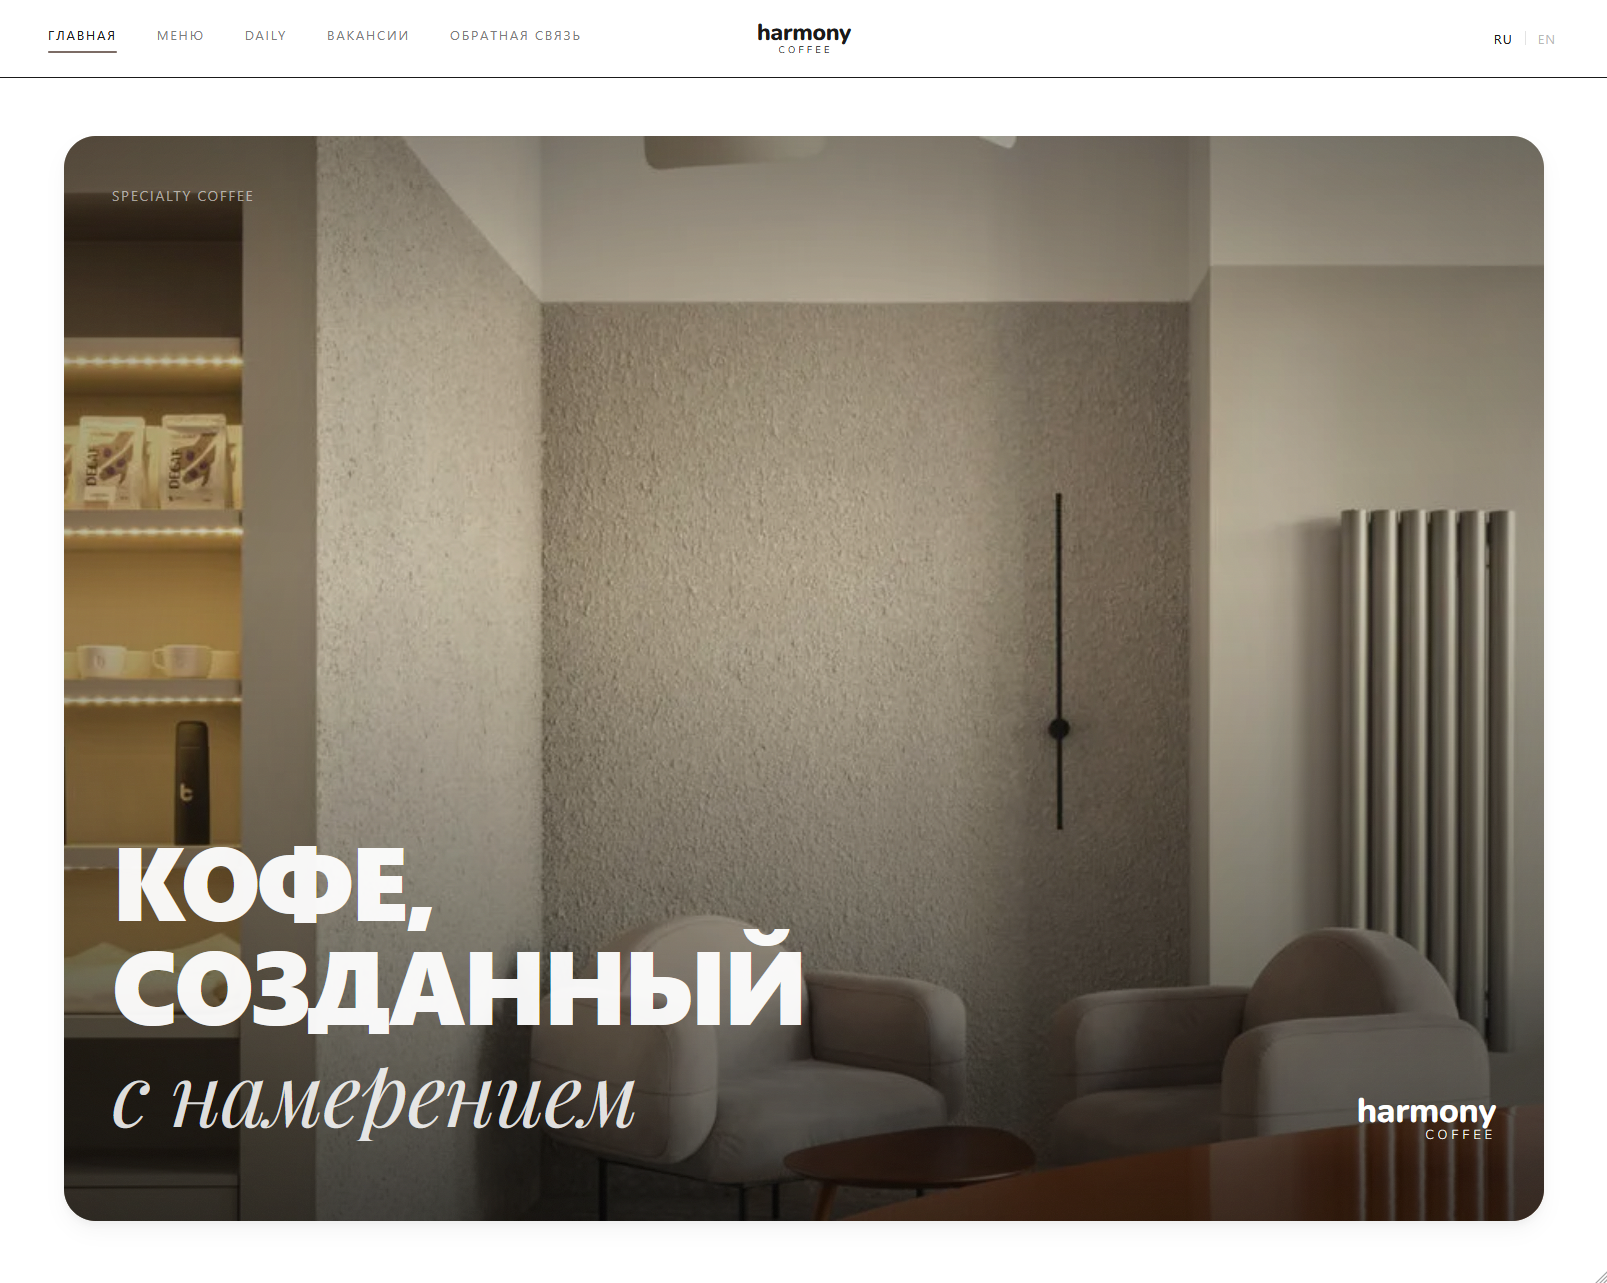
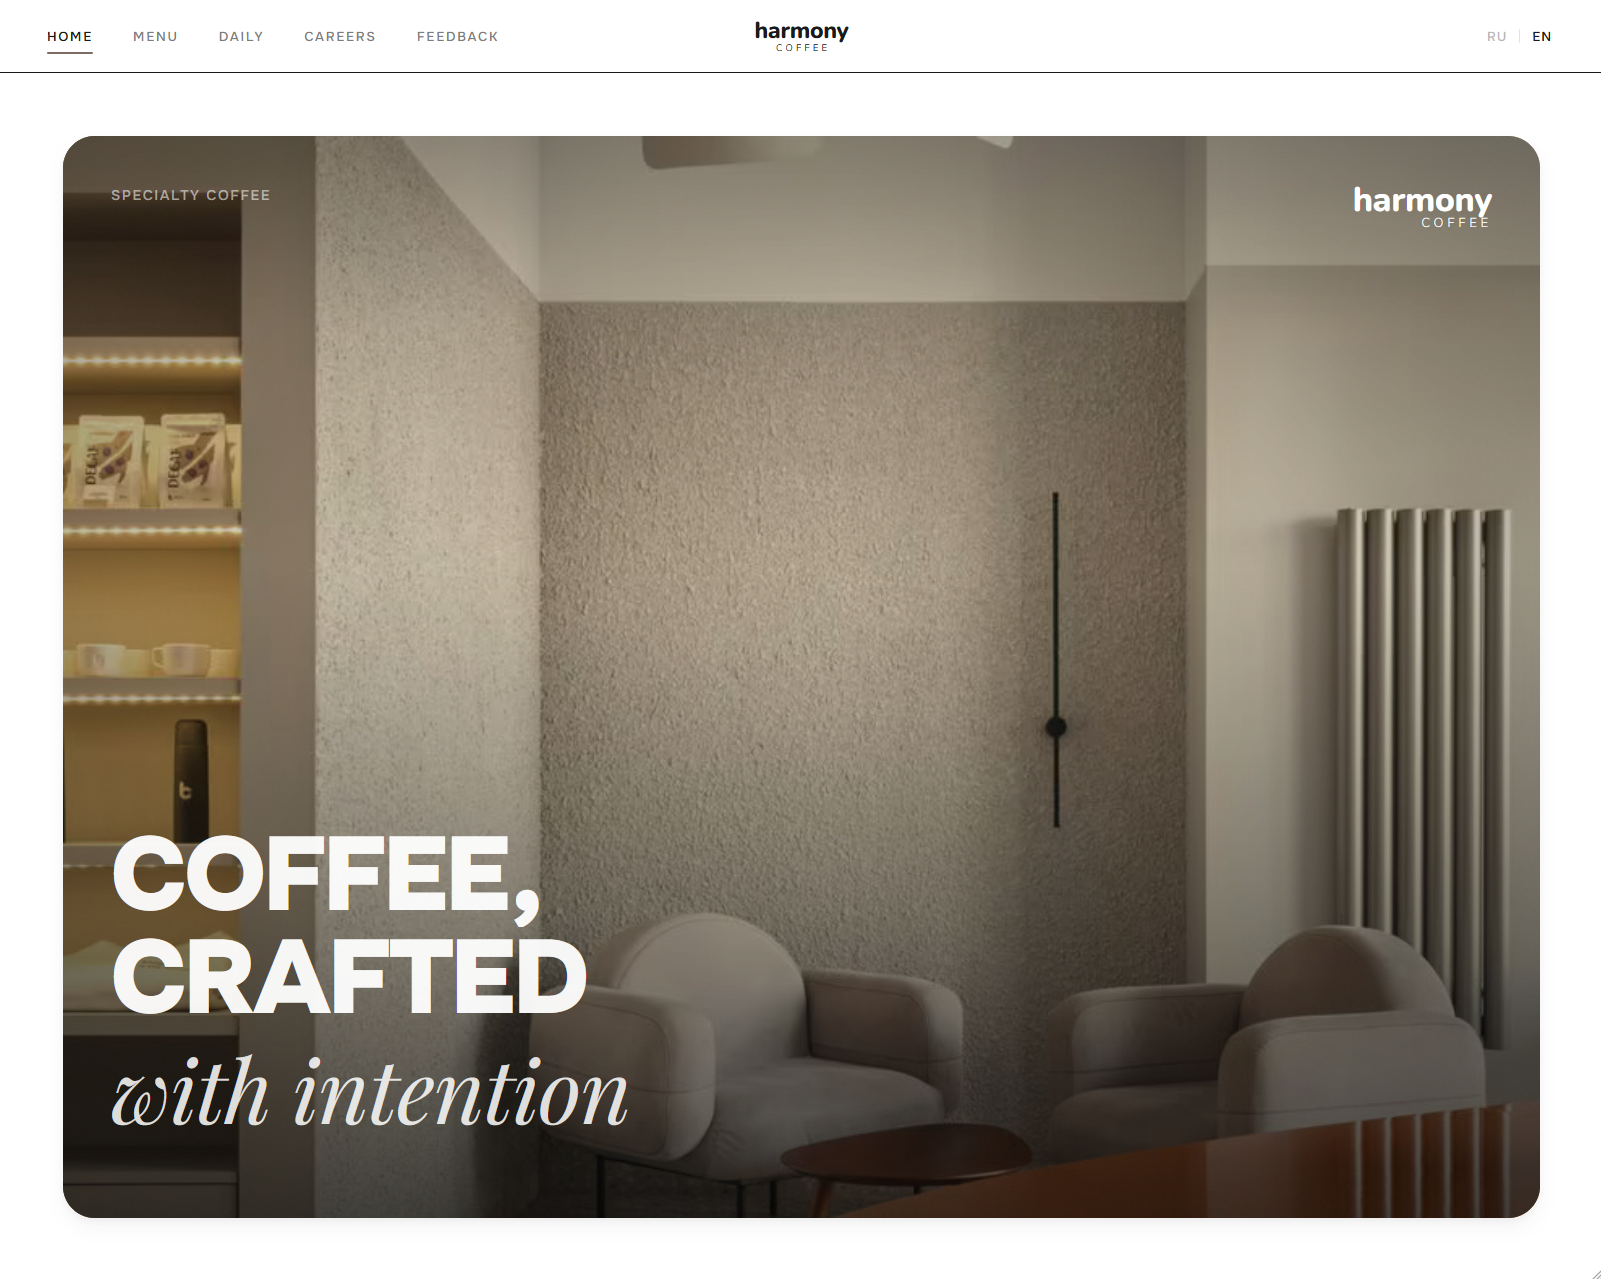
small changes

diff --git a/index.html b/index.html
@@ -79,8 +79,8 @@
                 <p class="label" data-din>02 <svg class="i"><use href="#i-spade" /></svg></p>
                 <h3 class="project__title" data-title>Alfa Print</h3>
               </header>
-              <a class="plate" href="https://okaraf.com/alfaprint" target="_blank" rel="noopener" data-plate data-cursor="Visit" style="--ar: 1582 / 1107" aria-label="Visit Alfa Print (opens in a new tab)">
-                <img src="/alfaprint.webp" width="1582" height="1107" alt="Alfa Print homepage: the wordmark “Alfa Print” in black and red with a tick mark, a “discuss your run” stamp and a row of client logos" loading="lazy" decoding="async" />
+              <a class="plate" href="https://okaraf.com/alfaprint" target="_blank" rel="noopener" data-plate data-cursor="Visit" style="--ar: 1575 / 1103" aria-label="Visit Alfa Print (opens in a new tab)">
+                <img src="/alfaprint.webp" width="1575" height="1103" alt="Alfa Print homepage: the line “We print on anything that holds ink”, the wordmark “Alfa Print” in black and red with a tick mark, a “discuss your run” stamp and a row of client logos" loading="lazy" decoding="async" />
               </a>
               <div class="project__info">
                 <p class="project__lede" data-din>Concept website for the Alfa Print typography agency.</p>
@@ -117,8 +117,8 @@
                 <p class="label" data-din>04 <svg class="i"><use href="#i-diamond" /></svg></p>
                 <h3 class="project__title" data-title>Harmony</h3>
               </header>
-              <a class="plate" href="https://okaraf.com/harmonycoffee" target="_blank" rel="noopener" data-plate data-cursor="Visit" style="--ar: 1607 / 1283" aria-label="Visit Harmony Coffee (opens in a new tab)">
-                <img src="/harmony.webp" width="1607" height="1283" alt="Harmony Coffee homepage: a quiet café interior with armchairs under the headline “Кофе, созданный с намерением”" loading="lazy" decoding="async" />
+              <a class="plate" href="https://okaraf.com/harmonycoffee" target="_blank" rel="noopener" data-plate data-cursor="Visit" style="--ar: 1601 / 1279" aria-label="Visit Harmony Coffee (opens in a new tab)">
+                <img src="/harmony.webp" width="1601" height="1279" alt="Harmony Coffee homepage: a quiet café interior with armchairs under the headline “Coffee, crafted with intention”" loading="lazy" decoding="async" />
               </a>
               <div class="project__info">
                 <p class="project__lede" data-din>Concept website for the Harmony Coffee coffee shop.</p>
